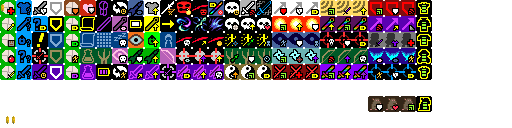
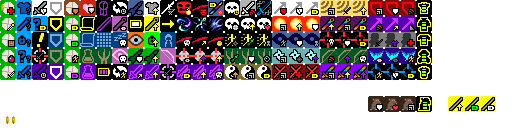
老战法转职迁移完成

Changed region(s): [[0.875, 0.75, 0.9688, 0.875]]

diff --git a/core/src/main/java/com/shatteredpixel/shatteredpixeldungeon/actors/mobs/npcs/MageHand.java b/core/src/main/java/com/shatteredpixel/shatteredpixeldungeon/actors/mobs/npcs/MageHand.java
@@ -293,39 +293,47 @@ public class MageHand extends DirectableAlly {
 
     @Override
     protected boolean canAttack(Char enemy) {
-        if (Dungeon.hero != null){
+        if (Dungeon.hero != null) {
+            // 如果装备了法师之杖，优先检查近战攻击
             if (magesStaff != null) {
+                // 检查是否可以近战攻击
+                if (Dungeon.level.adjacent(pos, enemy.pos)) {
+                    return true;
+                }
+                // 如果不能近战攻击，再检查法杖攻击
                 Wand mwand = magesStaff.wand;
                 if (mwand != null && wandCooldown == 0) {
                     if (mwand.curCharges > 0) {
                         Ballistica attack = new Ballistica(pos, enemy.pos, mwand.collisionProperties);
-                        /** @英雄在路径上，不能直接攻击 */
-                        if (isHeroInAttackPath(attack)) {
-                            return false;
+                        if (!isHeroInAttackPath(attack)) {
+                            return attack.collisionPos == enemy.pos;
                         }
-                        return attack.collisionPos == enemy.pos;
-                    } else {
-                        return Dungeon.level.adjacent(pos, enemy.pos);
                     }
                 }
-            } else if (equippedWand != null && wandCooldown == 0) {
+            }
+            // 如果没有装备法师之杖，检查普通法杖
+            else if (equippedWand != null && wandCooldown == 0) {
                 if (equippedWand.curCharges > 0) {
                     Ballistica attack = new Ballistica(pos, enemy.pos, equippedWand.collisionProperties);
-                    /** @英雄在路径上，不能直接攻击 */
-                    if (isHeroInAttackPath(attack)) {
-                        return false;
+                    if (!isHeroInAttackPath(attack)) {
+                        return attack.collisionPos == enemy.pos;
                     }
-                    return attack.collisionPos == enemy.pos;
                 }
             }
         }
         return false;
     }
 
+    @Override
     protected boolean doAttack(Char enemy) {
-        if(hero != null){
-            /** @老法杖判定区 */
+        if (hero != null) {
+            // 如果装备了法师之杖，优先进行近战攻击
             if (magesStaff != null) {
+                // 如果是近战攻击
+                if (Dungeon.level.adjacent(pos, enemy.pos)) {
+                    return super.doAttack(enemy);
+                }
+                // 如果不是近战攻击，检查法杖攻击
                 Wand mwand = magesStaff.wand;
                 if (mwand != null && wandCooldown == 0) {
                     if (mwand.curCharges > 0) {
@@ -334,31 +342,28 @@ public class MageHand extends DirectableAlly {
                             return tryMoveToBetterPosition(enemy);
                         }
                         if (sprite != null && (sprite.visible || enemy.sprite.visible)) {
-                            sprite.zap( enemy.pos );
+                            sprite.zap(enemy.pos);
                             return false;
                         } else {
                             zap();
                             return true;
                         }
-                    } else if (Dungeon.level.adjacent(pos, enemy.pos)) {
-                        return super.doAttack(enemy);
                     }
                 }
-                /** @法杖判定区 */
-            } else {
-                if (equippedWand != null && wandCooldown == 0) {
-                    if (equippedWand.curCharges > 0) {
-                        Ballistica attack = new Ballistica(pos, enemy.pos,equippedWand.collisionProperties);
-                        if (isHeroInAttackPath(attack)) {
-                            return tryMoveToBetterPosition(enemy);
-                        }
-                        if (sprite != null && (sprite.visible || enemy.sprite.visible)) {
-                            sprite.zap( enemy.pos );
-                            return false;
-                        } else {
-                            zap();
-                            return true;
-                        }
+            }
+            // 如果没有装备法师之杖，使用普通法杖攻击
+            else if (equippedWand != null && wandCooldown == 0) {
+                if (equippedWand.curCharges > 0) {
+                    Ballistica attack = new Ballistica(pos, enemy.pos, equippedWand.collisionProperties);
+                    if (isHeroInAttackPath(attack)) {
+                        return tryMoveToBetterPosition(enemy);
+                    }
+                    if (sprite != null && (sprite.visible || enemy.sprite.visible)) {
+                        sprite.zap(enemy.pos);
+                        return false;
+                    } else {
+                        zap();
+                        return true;
                     }
                 }
             }

diff --git a/core/src/main/java/com/shatteredpixel/shatteredpixeldungeon/items/wands/Wand.java b/core/src/main/java/com/shatteredpixel/shatteredpixeldungeon/items/wands/Wand.java
@@ -79,6 +79,7 @@ public abstract class Wand extends Item {
 	}
 	public static final String AC_ZAP	= "ZAP";
 
+
 	private static final float TIME_TO_ZAP	= 1f;
 	
 	public int maxCharges = initialCharges();
@@ -170,6 +171,9 @@ public abstract class Wand extends Item {
 
 	//not affected by enchantment proc chance changers
 	public static float procChanceMultiplier( Char attacker ){
+		if (attacker.buff(Talent.EmpoweredStrikeTracker.class) != null){
+			return 1f + ((Hero)attacker).pointsInTalent(Talent.REPOWER_ATTACK)/2f;
+		}
 		return 1f;
 	}
 
@@ -308,6 +312,10 @@ public abstract class Wand extends Item {
 			if (Dungeon.hero.hasTalent(Talent.EMPOWERED_STRIKE)) {
 				desc += "\n\n" + Messages.get(this, "bmage_desc");
 			}
+		}
+
+		if (Dungeon.hero != null && Dungeon.hero.subClass == HeroSubClass.OLDBATTLEMAGE){
+			desc += "\n\n" + Messages.get(this, "bmage_desc");
 		}
 
 		return desc;
@@ -487,14 +495,14 @@ public abstract class Wand extends Item {
 		}
 
 		//inside staff
-//		if (charger != null && charger.target == Dungeon.hero && !Dungeon.hero.belongings.contains(this)){
-//			if (Dungeon.hero.hasTalent(Talent.EXCESS_CHARGE) && curCharges >= maxCharges){
-//				int shieldToGive = Math.round(buffedLvl()*0.67f*Dungeon.hero.pointsInTalent(Talent.EXCESS_CHARGE));
-//				Buff.affect(Dungeon.hero, Barrier.class).setShield(shieldToGive);
-//				Dungeon.hero.sprite.showStatusWithIcon(CharSprite.POSITIVE, Integer.toString(shieldToGive), FloatingText.SHIELDING);
-//			}
-//		}
-		
+		if (charger != null && charger.target == Dungeon.hero && !Dungeon.hero.belongings.contains(this)){
+			if (Dungeon.hero.hasTalent(Talent.SHIELDING_BLOCK) && curCharges >= maxCharges){
+				int shieldToGive = Math.round(buffedLvl()*0.67f*Dungeon.hero.pointsInTalent(Talent.SHIELDING_BLOCK));
+				Buff.affect(Dungeon.hero, Barrier.class).setShield(shieldToGive);
+				Dungeon.hero.sprite.showStatusWithIcon(CharSprite.POSITIVE, Integer.toString(shieldToGive), FloatingText.SHIELDING);
+			}
+		}
+
 		curCharges -= cursed ? 1 : chargesPerCast();
 
 		//remove magic charge at a higher priority, if we are benefiting from it are and not the
@@ -512,11 +520,12 @@ public abstract class Wand extends Item {
 			}
 		}
 
-//		if (Dungeon.hero.hasTalent(Talent.LINGERING_MAGIC)
-//				&& charger != null && charger.target == Dungeon.hero){
-//
-//			Buff.prolong(Dungeon.hero, Talent.LingeringMagicTracker.class, 5f);
-//		}
+		if (Dungeon.hero.hasTalent(Talent.REPOWER_ATTACK)
+				&& charger != null && charger.target == Dungeon.hero
+				&& !Dungeon.hero.belongings.contains(this)){
+
+			Buff.prolong(Dungeon.hero, Talent.EmpoweredStrikeTracker.class, 10f);
+		}
 
 		Invisibility.dispel();
 		updateQuickslot();

diff --git a/core/src/main/java/com/shatteredpixel/shatteredpixeldungeon/items/weapon/melee/MagesStaff.java b/core/src/main/java/com/shatteredpixel/shatteredpixeldungeon/items/weapon/melee/MagesStaff.java
@@ -28,6 +28,7 @@ import com.shatteredpixel.shatteredpixeldungeon.Badges;
 import com.shatteredpixel.shatteredpixeldungeon.Dungeon;
 import com.shatteredpixel.shatteredpixeldungeon.actors.Actor;
 import com.shatteredpixel.shatteredpixeldungeon.actors.Char;
+import com.shatteredpixel.shatteredpixeldungeon.actors.buffs.ArtifactRecharge;
 import com.shatteredpixel.shatteredpixeldungeon.actors.buffs.Buff;
 import com.shatteredpixel.shatteredpixeldungeon.actors.hero.Hero;
 import com.shatteredpixel.shatteredpixeldungeon.actors.hero.HeroSubClass;
@@ -38,6 +39,7 @@ import com.shatteredpixel.shatteredpixeldungeon.items.Item;
 import com.shatteredpixel.shatteredpixeldungeon.items.artifacts.SandalsOfNature;
 import com.shatteredpixel.shatteredpixeldungeon.items.bags.Bag;
 import com.shatteredpixel.shatteredpixeldungeon.items.bags.MagicalHolster;
+import com.shatteredpixel.shatteredpixeldungeon.items.scrolls.ScrollOfRecharging;
 import com.shatteredpixel.shatteredpixeldungeon.items.wands.Wand;
 import com.shatteredpixel.shatteredpixeldungeon.items.wands.WandOfAnmy;
 import com.shatteredpixel.shatteredpixeldungeon.items.wands.WandOfCorrosion;
@@ -210,20 +212,23 @@ public class MagesStaff extends MeleeWeapon {
 	@Override
 	public int proc(Char attacker, Char defender, int damage) {
 
-		//充能秘术 老版战法天赋
-//		if (attacker instanceof Hero && ((Hero) attacker).hasTalent(Talent.MYSTICAL_CHARGE)){
-//			Hero hero = (Hero) attacker;
-//			ArtifactRecharge.chargeArtifacts(hero, hero.pointsInTalent(Talent.MYSTICAL_CHARGE)/2f);
-//		}
+		if (attacker instanceof Hero && ((Hero) attacker).hasTalent(Talent.CHARGE_MAGIC)){
+			Hero hero = (Hero) attacker;
+			ArtifactRecharge.chargeArtifacts(hero, hero.pointsInTalent(Talent.CHARGE_MAGIC)/2f);
+		}
 
 		Talent.EmpoweredStrikeTracker empoweredStrike = attacker.buff(Talent.EmpoweredStrikeTracker.class);
+		if (empoweredStrike != null){
+			damage = Math.round( damage * (1f + Dungeon.hero.pointsInTalent(Talent.REPOWER_ATTACK)/6f));
+		}
 
-		//			if (wand.curCharges < wand.maxCharges){
-		//				wand.partialCharge += 0.5f;
-		//			}
-		//			ScrollOfRecharging.charge(attacker);
+		if (wand != null &&
+				attacker instanceof Hero && ((Hero)attacker).subClass == HeroSubClass.OLDBATTLEMAGE) {
+			if (wand.curCharges < wand.maxCharges) wand.partialCharge += 0.5f;
+			ScrollOfRecharging.charge((Hero)attacker);
+			wand.onHit(this, attacker, defender, damage);
+		}
 
-		//NEW 新天赋 多样打击----替换蓄能打击
 		if (wand != null && hero.subClass == HeroSubClass.BATTLEMAGE) {
 			int battleMageLevel = hero.pointsInTalent(Talent.EMPOWERED_STRIKE);
 			float triggerChance = Math.min(1.0f, battleMageLevel * 0.33f);

diff --git a/core/src/main/java/com/shatteredpixel/shatteredpixeldungeon/windows/WndChooseSubclass.java b/core/src/main/java/com/shatteredpixel/shatteredpixeldungeon/windows/WndChooseSubclass.java
@@ -35,6 +35,7 @@ import com.shatteredpixel.shatteredpixeldungeon.ui.Icons;
 import com.shatteredpixel.shatteredpixeldungeon.ui.RedButton;
 import com.shatteredpixel.shatteredpixeldungeon.ui.RenderedTextBlock;
 import com.shatteredpixel.shatteredpixeldungeon.ui.Window;
+import com.watabou.utils.DeviceCompat;
 
 public class WndChooseSubclass extends Window {
 	
@@ -59,7 +60,7 @@ public class WndChooseSubclass extends Window {
 		float pos = message.bottom() + 3*GAP;
 
 		for (HeroSubClass subCls : hero.heroClass.subClasses()){
-			if(subCls == HeroSubClass.OLDBATTLEMAGE) continue;
+			if(subCls == HeroSubClass.OLDBATTLEMAGE && !(DeviceCompat.isDebug())) continue;
 			RedButton btnCls = new RedButton( subCls.shortDesc(), 6 ) {
 				@Override
 				protected void onClick() {

diff --git a/core/src/main/java/com/shatteredpixel/shatteredpixeldungeon/actors/hero/Talent.java b/core/src/main/java/com/shatteredpixel/shatteredpixeldungeon/actors/hero/Talent.java
@@ -115,6 +115,10 @@ public enum Talent {
 	DESPERATE_POWER(41, 3), ALLY_WARP(42, 3),
 	//Battlemage T3
 	EMPOWERED_STRIKE(43, 3), MYSTICAL_CHARGE(44, 3), EXCESS_CHARGE(45, 3),
+	//Battlemage T3-Old
+	REPOWER_ATTACK(220,3),CHARGE_MAGIC(221,3),
+	SHIELDING_BLOCK(222,3),
+
 	//Warlock T3
 	SOUL_EATER(46, 3), SOUL_SIPHON(47, 3), NECROMANCERS_MINIONS(48, 3),
 	//Elemental Blast T4
@@ -958,6 +962,9 @@ public enum Talent {
 				break;
 			case BATTLEMAGE:
 				Collections.addAll(tierTalents, EMPOWERED_STRIKE, MYSTICAL_CHARGE, EXCESS_CHARGE);
+				break;
+			case OLDBATTLEMAGE:
+				Collections.addAll(tierTalents,REPOWER_ATTACK,CHARGE_MAGIC,SHIELDING_BLOCK);
 				break;
 			case WARLOCK:
 				Collections.addAll(tierTalents, SOUL_EATER, SOUL_SIPHON, NECROMANCERS_MINIONS);
